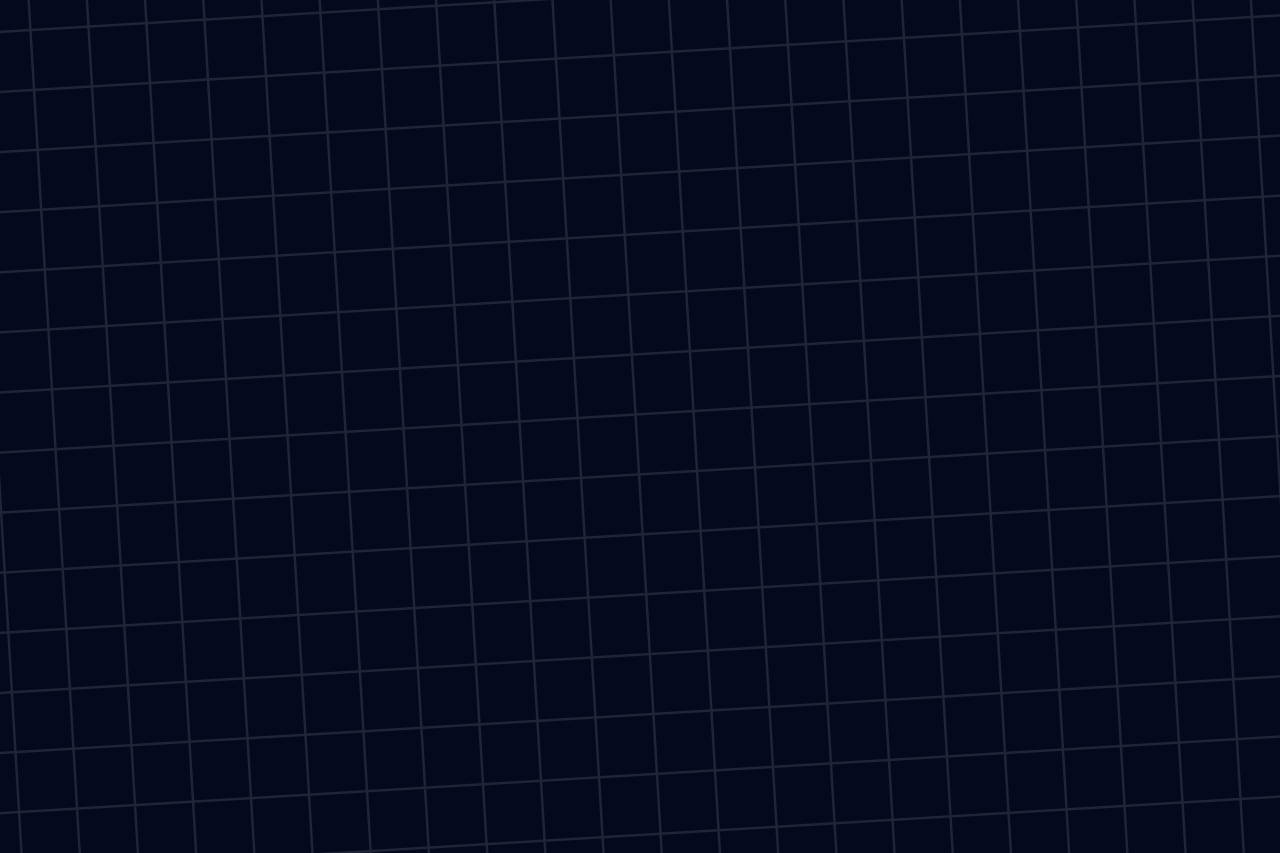
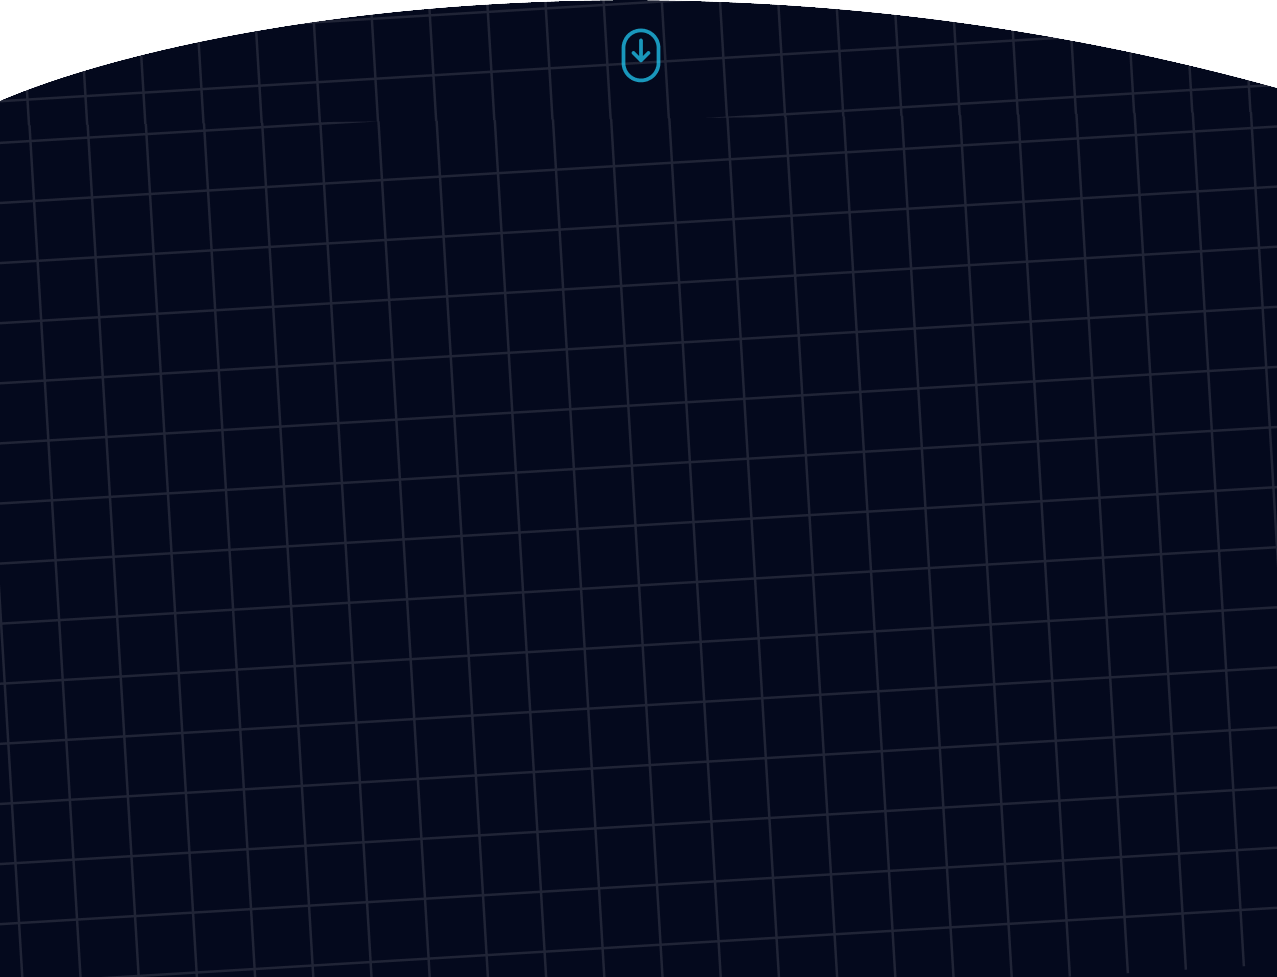
About Section

diff --git a/client/src/components/Home/About.jsx b/client/src/components/Home/About.jsx
@@ -15,18 +15,17 @@ function About() {
 
   return (
     <>
-    <div className={`absolute bottom-[0%] left-[0%] w-[100%] block max-[830px]:hidden`}><img src={Oval} className="w-full"></img></div>
       <div
-        className="relative w-full h-[100%] px-[2rem] py-52 flex items-center justify-center overflow-hidden"
-        style={{
-          backgroundImage: `url(${Image1})`,
-          backgroundSize: "cover",
-        }}
+        className="relative w-full h-[100vh] min-[830px]:h-[100%] px-[2rem] flex items-center justify-center overflow-hidden min-[830px]:aspect-[20/17] mt-[-17%]"
       >
-        <div className="lg:hidden relative flex">
-          <div
-            className="absolute z-10 top-[97%] w-full"
-          >
+        <div className="hidden min-[830px]:block absolute bottom-0 w-full">
+          <img src={Image1} className="w-[100vw] sm:h-[100%]" />
+        </div>
+        <div className="min-[830px]:hidden absolute bottom-0 w-full">
+          <img src={Oval} className="w-[100vw] h-[100vh] min-[830px]:h-[100%]" />
+        </div>
+        <div className="min-[830px]:hidden relative flex">
+          <div className="absolute z-10 top-[97%] w-full">
             <NavLink to="/">
               <img
                 src={Image4}
@@ -36,9 +35,7 @@ function About() {
             </NavLink>
           </div>
 
-          <div
-            className="absolute z-20 top-[-8%] w-full"
-          >
+          <div className="absolute z-20 top-[-8%] w-full">
             <NavLink to="/">
               <img
                 src={Image3}
@@ -48,22 +45,16 @@ function About() {
             </NavLink>
           </div>
 
-          <div
-            className="absolute h-52 w-52 top-[-20%] right-[-30%]"
-          >
+          <div className="absolute h-52 w-52 top-[-20%] right-[-30%]">
             <img src={Image5} alt="" />
           </div>
-          <div
-            className="absolute h-52 w-52 z-40 bottom-[-40%] left-[-35%]"
-          >
+          <div className="absolute h-52 w-52 z-40 bottom-[-40%] left-[-35%]">
             <img src={Image6} alt="" />
           </div>
 
-          <div
-            className="p-3 sm:p-6 md:p-8 max-w-[26rem] h-[100%] bg-[#F8B931]"
-          >
-            <div className="flex justify-center">
-              <div className="relative bg-gray-300 border-black border-2 mt-5 sm:mt-2 mb-4 rounded-md w-[83%] h-[16rem] max-w-[15rem]">
+          <div className="p-3 sm:p-6 md:p-8 max-w-[26rem] h-[100%] bg-[#F8B931] grid place-items-center">
+            <div className="flex justify-center w-full">
+              <div className="relative bg-gray-300 border-black border-2 mt-5 sm:mt-2 mb-4 rounded-md w-[83%] h-[16rem]">
                 <img src="" alt="" />
               </div>
             </div>
@@ -83,26 +74,20 @@ function About() {
         </div>
 
         <div
-          className="hidden lg:flex relative gap-20 bg-[#F8B931] shadow-lg max-w-[70%] aspect-[2.5] items-center"
+          className="hidden min-[830px]:flex relative gap-20 bg-[#F8B931] shadow-lg max-w-[70%] aspect-[2.5] items-center mt-[15%]"
           style={{
             transform: "rotate(3deg)",
           }}
         >
-          <div
-            className="absolute h-52 w-52 z-40 min-[1400px]:top-[-30%] right-[-10%] top-[-40%]"
-          >
+          <div className="absolute h-52 w-52 z-40 min-[1400px]:top-[-30%] right-[-10%] top-[-50%]">
             <img src={Image5} alt="" />
           </div>
 
-          <div
-            className="absolute h-52 w-52 z-40 min-[1400px]:bottom-[-55%] left-[-10%] bottom-[-70%]"
-          >
+          <div className="absolute h-52 w-52 z-40 min-[1400px]:bottom-[-55%] left-[-10%] bottom-[-100%]">
             <img src={Image6} alt="" />
           </div>
 
-          <div
-            className="absolute z-40 top-[-14%] left-[-8%] rotate-[-16.58deg]" 
-          >
+          <div className="absolute z-40 top-[-14%] left-[-8%] rotate-[-16.58deg]">
             <NavLink to="/">
               <img
                 src={Image3}
@@ -112,9 +97,7 @@ function About() {
             </NavLink>
           </div>
 
-          <div
-            className="absolute z-40 bottom-[-5%] right-[-5%] rotate-[-16.58deg]"
-          >
+          <div className="absolute z-40 bottom-[-5%] right-[-5%] rotate-[-16.58deg]">
             <NavLink to="/">
               <img
                 src={Image4}
@@ -138,10 +121,10 @@ function About() {
 
             <div className="relative flex-1 transform -skew-x-6 p-12 mr-4 min-[1100px]:mr-12 1300:mr-20">
               <div className="transform skew-x-6">
-                <h1 className="text-[1.5rem] 1300:text-[2rem] 1600:text-[2.75rem] font-extrabold mb-2 font-rfabb">
+                <h1 className="text-[1rem] lg:text-[1.5rem] 1300:text-[2rem] 1600:text-[2.75rem] font-extrabold mb-2 font-rfabb">
                   ABOUT VIVACITY
                 </h1>
-                <p className="text-[1rem] 1300:text-[1.25rem] 1600:text-[1.625rem] font-vetosans font-light">
+                <p className="text-[0.8rem] lg:text-[1rem] 1300:text-[1.25rem] 1600:text-[1.625rem] font-vetosans font-light">
                   Vivacity, the annual cultural fest of LNMIIT, embodies the
                   vibrant spirit of Gen Z and Millennials, presenting an
                   enticing mix of music, dance, and numerous engaging
@@ -160,3 +143,4 @@ function About() {
 }
 
 export default About;
+

diff --git a/client/src/components/Home/Hero.jsx b/client/src/components/Home/Hero.jsx
@@ -6,37 +6,71 @@ import Image4 from "../../assets/images/right1.png";
 import Image5 from "../../assets/images/bottom1.png";
 import Image6 from "../../assets/images/bottom2.png";
 import Image7 from "../../assets/images/viva_logo_hero.png";
-import "./forHero.css";
-// import styles from "./Hero.module.css";
-import MainImage from "../../assets/images/HeroSectionMainImage.png"
+import MainImage from "../../assets/images/HeroSectionMainImage.png";
 import VivaMobile from "../../assets/images/Vivalogo_mobile.png";
 import styles from "./Herox.module.css";
+import { useEffect, useState } from "react";
+
 function Hero() {
-    return (
-        <div className="overflow-hidden">
-            <div className="h-[100vh] w-[100vw]  text-center flex items-center align-center justify-center bg-yellow-200 max-[830px]:hidden">
-                <div className={`flex items-center align-center justify-center relative w-[100%] h-[100%] ${styles.MainBackgroundHero}`}>
-                    {/*
-            
-                    <div className="absolute left-1"><img src={Image1}></img></div>
-                    <div className="absolute left-1 top-0"><img src={Image2}></img></div>
-            
-                    */}
-                    <img src={Image7} className="w-[35%] h-auto translate-x-[-2%] translate-y-[3%] min-[2552px]:w-[30%] "></img>
-                    {/* fixed images*/}
-                    
-                    
-                </div>
-            </div>
-            <div className={`text-center flex items-center align-center justify-center w-[100vw] ${styles.HeroMobile} aspect-[131/284] hidden max-[830px]:block`}>
-                <div className={`text-center w-[100%] h-[100%] ${styles.HeroTop} flex items-center align-center justify-center relative`}>
-                    <div className="w-[100%] grid place-items-center relative"><img src={VivaMobile} className="w-[74%] h-auto translate-y-[-25%] "></img></div>
-                    <div className={`absolute bottom-[28.5%]  w-[100%] h-[12.5%] ${styles.RegisterStrip} flex items-center align-center justify-center font-rfabb text-[1.25rem]`}><button className={`${styles.StripButton} pt-[2.5%] pb-[2.5%] pr-[1.5%] pl-[1.5%] text-center w-[60%] h-auto max-w-[200px]`}>{`Register Now ->`}</button></div>
-                </div>
-            </div>
+  const [scroll, setScroll] = useState(0);
+
+  const handleScroll = () => {
+    setScroll(window.scrollY);
+  };
+
+  useEffect(() => {
+    window.addEventListener("scroll", handleScroll);
+    return () => {
+      window.removeEventListener("scroll", handleScroll);
+    };
+  }, []);
+
+  return (
+    <div className="overflow-hidden relative z-[-1]">
+      <div className="h-[100vh] w-[100vw] text-center flex items-center align-center justify-center bg-yellow-200 max-[830px]:hidden">
+        <div
+          className={`flex items-center align-center justify-center relative w-[100%] h-[100%] ${styles.MainBackgroundHero}`}
+          style={{
+            transform: `translateY(${scroll * 0.3}px)`,
+          }}
+        >
+          <img
+            src={Image7}
+            className="w-[35%] h-auto translate-x-[-2%] translate-y-[3%] min-[2552px]:w-[30%]"
+          />
         </div>
-    );
+      </div>
+
+      <div
+        className={`text-center flex items-center align-center justify-center w-[100vw] ${styles.HeroMobile} aspect-[131/284] hidden max-[830px]:block`}
+        style={{
+            transform: `translateY(${scroll * 0.3}px)`,
+          }}
+      >
+        <div
+          className={`text-center w-[100%] h-[100%] ${styles.HeroTop} flex items-center align-center justify-center relative`}
+        >
+          <div className="w-[100%] grid place-items-center relative">
+            <img
+              src={VivaMobile}
+              className="w-[74%] h-auto translate-y-[-25%]"
+            />
+          </div>
+          <div
+            className={`absolute bottom-[28.5%]  w-[100%] h-[12.5%] ${styles.RegisterStrip} flex items-center align-center justify-center font-rfabb text-[1.25rem]`}
+          >
+            <button
+              className={`${styles.StripButton} pt-[2.5%] pb-[2.5%] pr-[1.5%] pl-[1.5%] text-center w-[60%] h-auto max-w-[200px]`}
+            >
+              {"Register Now ->"}
+            </button>
+          </div>
+        </div>
+      </div>
+    </div>
+  );
 }
 
 export default Hero;
+
 
